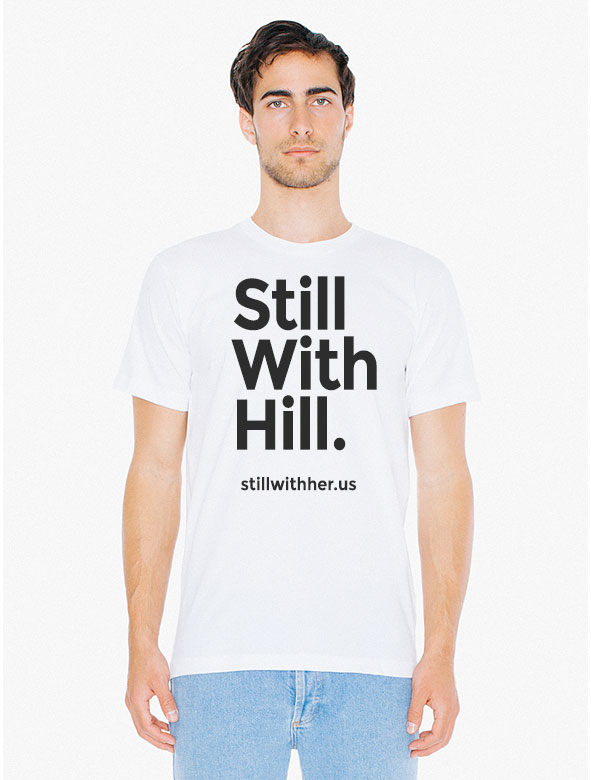
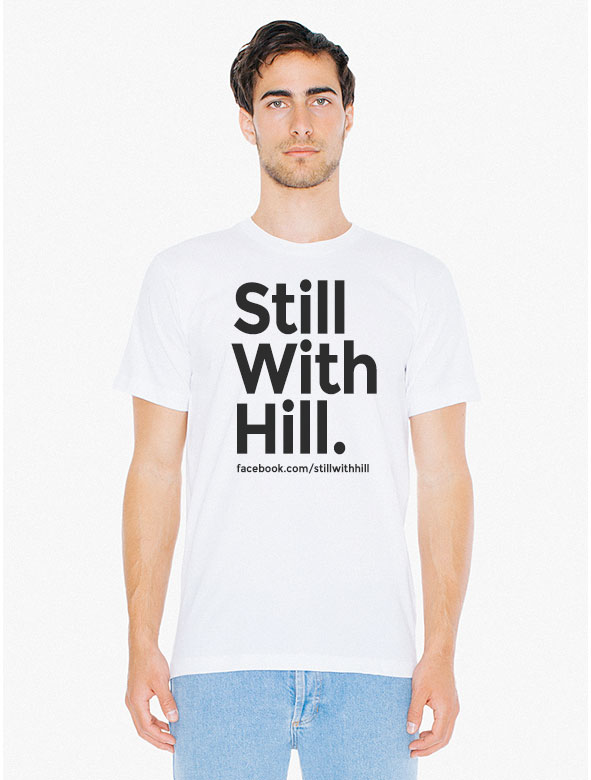
LETS GO LIVE

Changed region(s): [[0.3959, 0.3385, 0.6396, 0.6462], [0.5178, 0.3385, 0.5787, 0.3692]]

diff --git a/index.html b/index.html
@@ -4,7 +4,10 @@
         <meta charset="utf-8">
         <meta http-equiv="X-UA-Compatible" content="IE=edge">
         <meta name="viewport" content="width=device-width, initial-scale=1">
-        <title>The  Website of Alex Johnson</title>
+         <meta name="description" content="Buy Still with Hill Hillary Clinton merchandise and sign the petition to get her electoral college votes" />
+         <meta name="keywords" content="Hillary Clinton Still with Hill donald trump merch merchandise electors petition electoral college change december 19 still with her" />
+         <meta name="robots" content="index,follow" />
+        <title>Still with Hill | Support Hillary Clinton and petition your electors to do the same</title>
         <link href="https://maxcdn.bootstrapcdn.com/bootstrap/3.3.5/css/bootstrap.min.css" rel="stylesheet">
         <script src="http://code.jquery.com/jquery-2.1.4.min.js"></script>
         <script src="https://maxcdn.bootstrapcdn.com/bootstrap/3.3.5/js/bootstrap.min.js"></script>
@@ -14,13 +17,15 @@
             <script src="http://html5shiv.googlecode.com/svn/trunk/html5.js"></script>
         <![endif]-->
         <script>
-(function(i,s,o,g,r,a,m){i['GoogleAnalyticsObject']=r;i[r]=i[r]||function(){
-    (i[r].q=i[r].q||[]).push(arguments)},i[r].l=1*new Date();a=s.createElement(o),
-m=s.getElementsByTagName(o)[0];a.async=1;a.src=g;m.parentNode.insertBefore(a,m)
-})(window,document,'script','//www.google-analytics.com/analytics.js','ga');
+        <script>
+  (function(i,s,o,g,r,a,m){i['GoogleAnalyticsObject']=r;i[r]=i[r]||function(){
+        (i[r].q=i[r].q||[]).push(arguments)},i[r].l=1*new Date();a=s.createElement(o),
+    m=s.getElementsByTagName(o)[0];a.async=1;a.src=g;m.parentNode.insertBefore(a,m)
+          })(window,document,'script','https://www.google-analytics.com/analytics.js','ga');
 
-ga('create', 'UA-65369327-1', 'auto');
-ga('send', 'pageview');
+  ga('create', 'UA-87328749-1', 'auto');
+    ga('send', 'pageview');
+        </script>
 
         </script>
     </head>
@@ -35,7 +40,7 @@ ga('send', 'pageview');
                 <header>
                     <div class="row">
                         <div class="col-sm-4 col-sm-offset-2">
-                            <h1 id="site-title">Still<br>With</br>Her.</h1>
+                            <h1 id="site-title">Still<br>With</br>Hill.</h1>
                         </div>
                     </div>
                     <div class="row">
@@ -81,7 +86,6 @@ ga('send', 'pageview');
                         <a href="https://www.change.org/p/electoral-college-electors-electoral-college-make-hillary-clinton-president-on-december-19">Sign the petition</a>
                     </div>
                 </div>
-                <hr>
             </section>
             <section class="container-fluid" id="dnd">
                 <div class="row">
@@ -95,13 +99,13 @@ ga('send', 'pageview');
                     </div>
                     <div class="col-sm-4">
                         <p>Spread the word by wearing your "Still with Hill" shirt.</p>
+                        <p><a href="https://teespring.com/still-with-hill#pid=6&cid=656&sid=front">Purchase securely from teespring here</a>
                     </div>
                 </div>
             </section>
             <footer class="container-fluid" id="outro">
                 <div class="row">
                     <div class="col-sm-12">
-                        <h1>Still reading? <a href="https://www.linkedin.com/pub/alex-johnson/23/656/75">Contact me</a></h1>
                     </div>
                 </div>
             </footer>

diff --git a/css/alex.css b/css/alex.css
@@ -19,11 +19,11 @@ img {
     max-width: 100%;
 }
 a {
-	color: Navy;
+	color: #e31313;
 }
 a:hover {
 	text-decoration: none;
-	color: #FF4D19;
+	color: Navy;
 }
 .row {
 	padding-bottom: 32px;
@@ -89,7 +89,6 @@ nav {
 }
 h1 {
 	text-align: center;
-	text-transform: uppercase;
 	font-weight: 700;
     margin-bottom: 36px;
 }
@@ -112,9 +111,11 @@ h1#site-title {
 	background-color: #131C40;
 }
 #intro h1 {
+    text-transform: uppercase;
 	font-size: 42px;
 }
 #dnd {
+    margin-top: 36px;
     color: black;
 }
 #research {
@@ -127,7 +128,8 @@ h1#site-title {
 	background-color: #0F8AD9;
 }
 #outro {
-	background-color: #4C577F;
+	background-color: #131C40;
+    min-height: 124px;
 }
 #outro h1 {
 	font-weight: 200;
